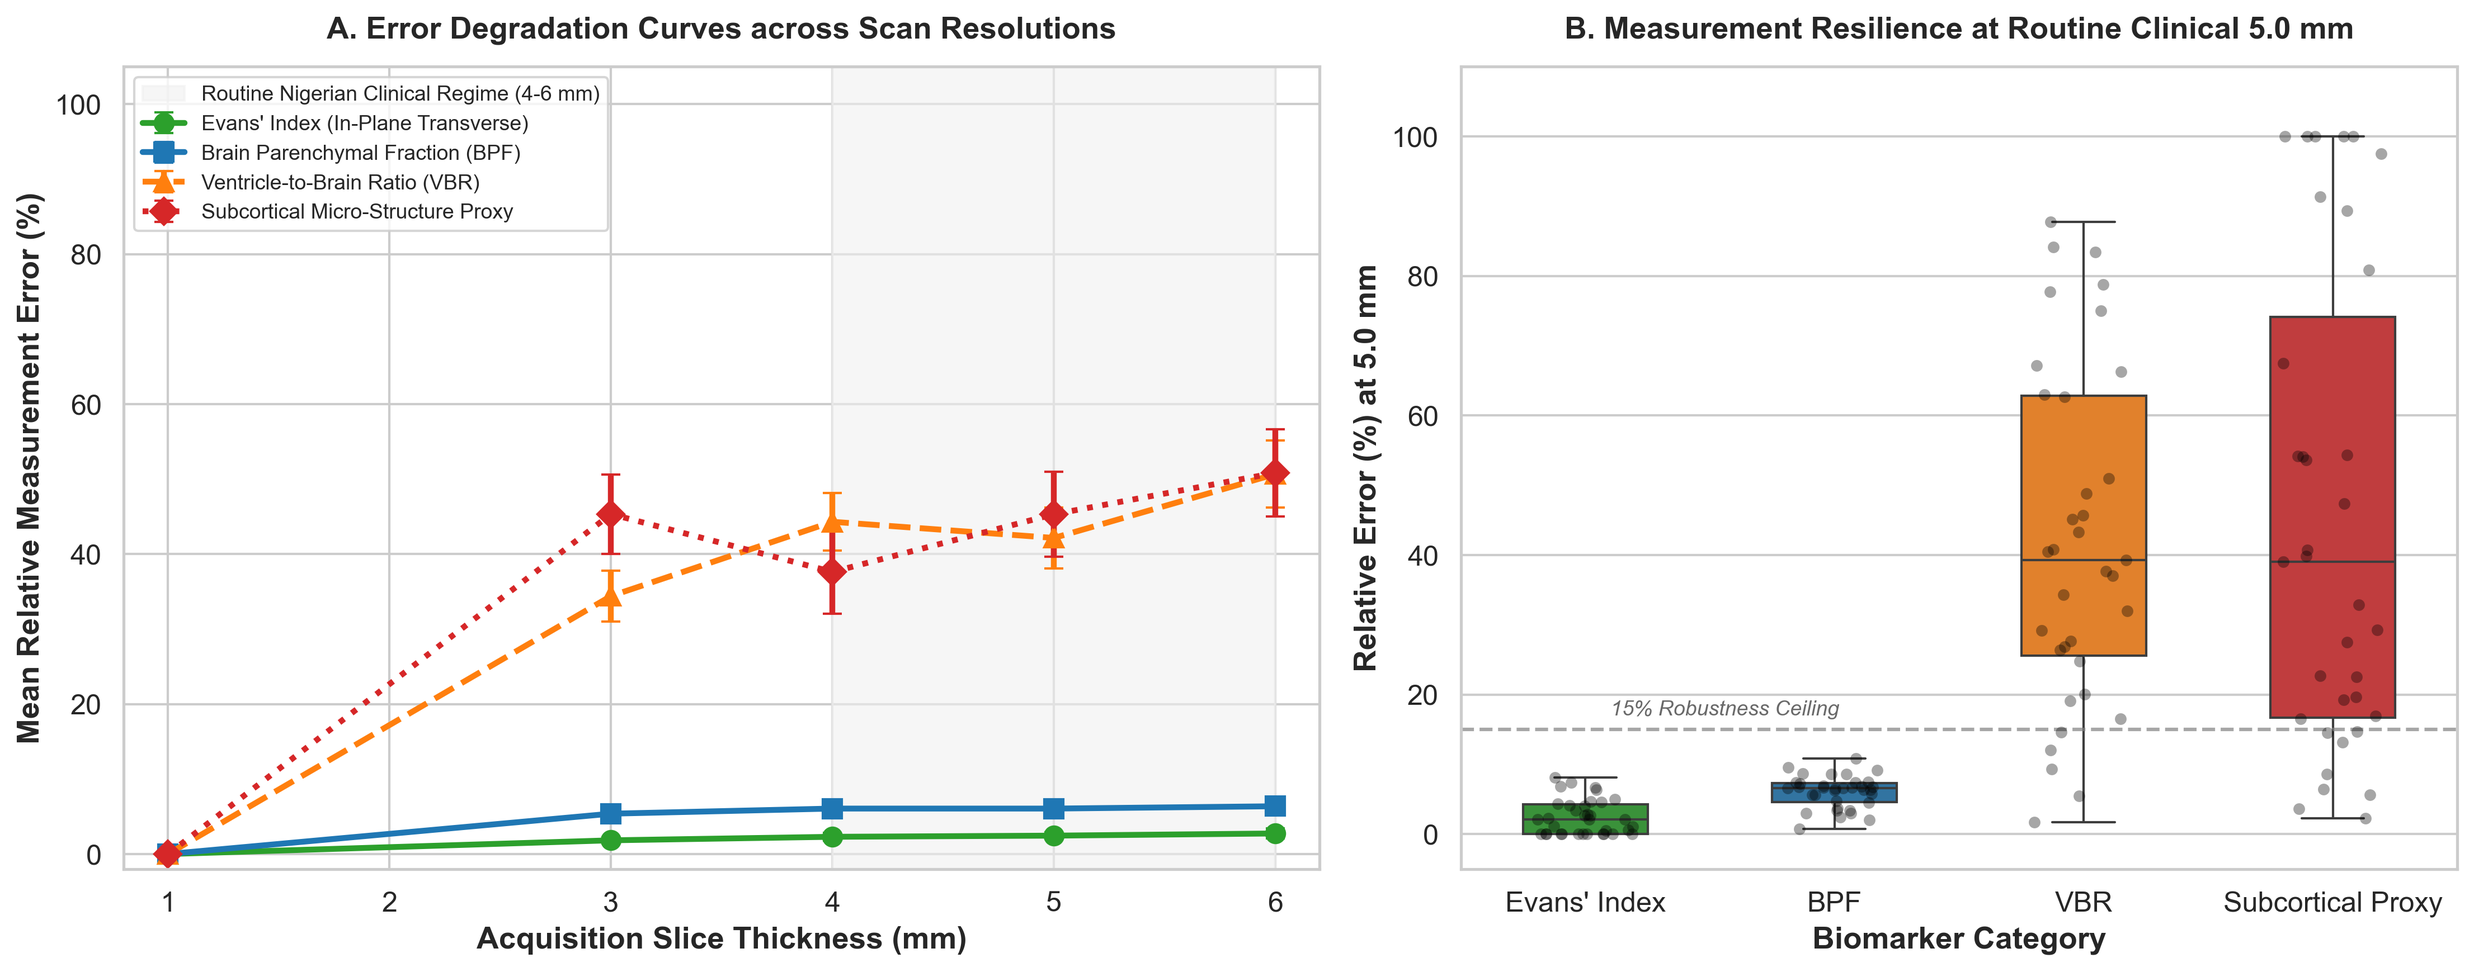
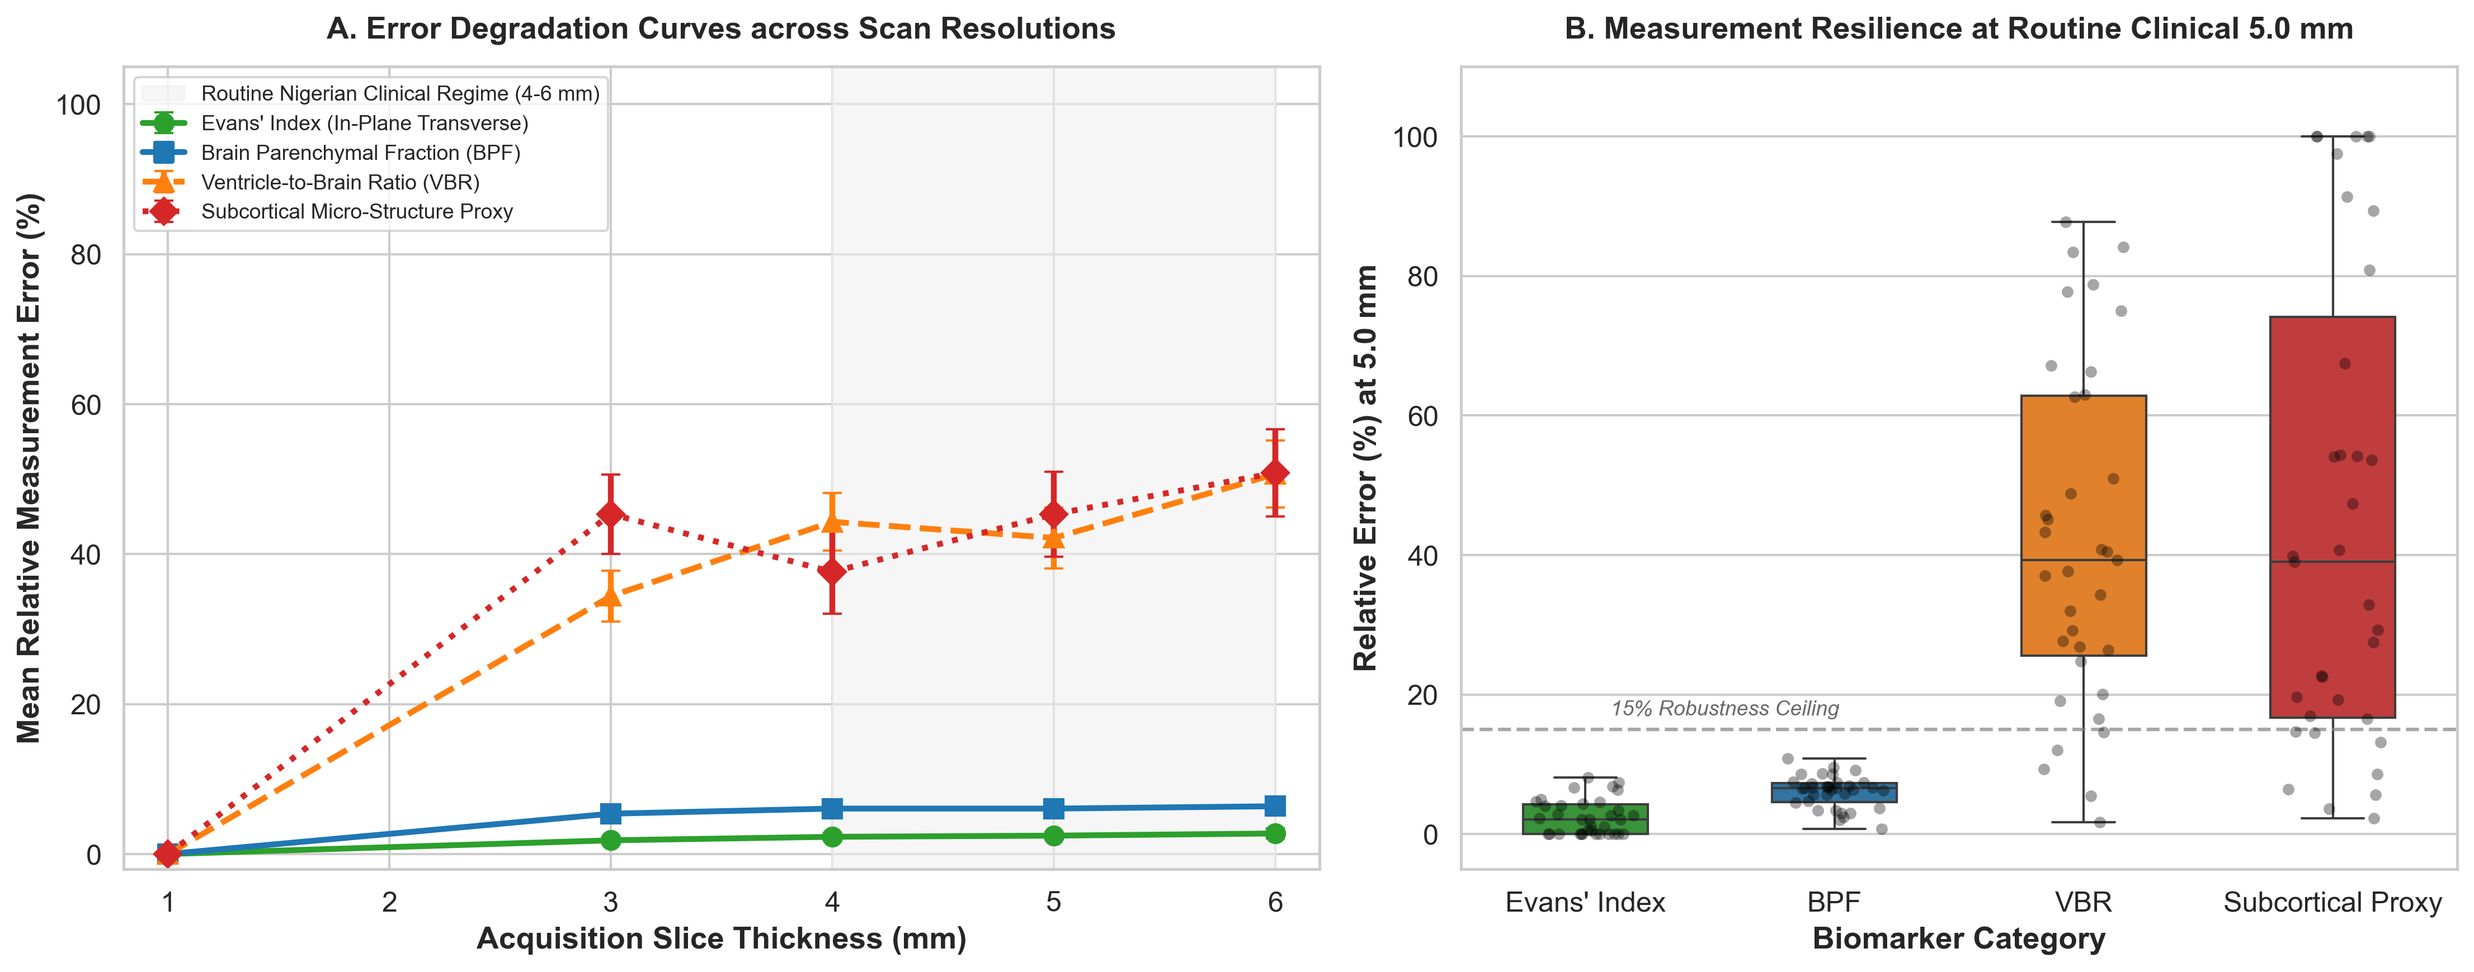
docs: correct stale contrast OR in discussion, refine Bayesian terminology and Panel D benchmark labels

diff --git a/features/clinical_failure_boundaries.py b/features/clinical_failure_boundaries.py
@@ -351,18 +351,18 @@ def generate_feasibility_plot(
     
     matrix_data = [
         ["Acquisition Profile", "Feasible Biomarkers", "Posterior Failure Risk\n[Median, 95% HDI]", "Recommended\nStatistical Handling"],
-        ["3D High-Res\n(1.0 mm, 1.5T)", "Evans' Index, PEF,\nVBR, Subcortical", f"{prof1_med:.2f}%\n[{prof1_lo:.2f}%, {prof1_hi:.2f}%]", "Direct pooling"],
+        ["3D High-Res\n(1.0 mm, 1.5T)", "Evans' Index, PEF,\nVBR, Subcortical", f"{prof1_med:.2f}%\n[{prof1_lo:.2f}%, {prof1_hi:.2f}%]", "Standard modeling;\nretain covariates"],
         ["2D Standard\n(4.0 mm, 1.5T)", "Evans' Index (Flagship),\nPEF", f"{prof2_med:.2f}%\n[{prof2_lo:.2f}%, {prof2_hi:.2f}%]", "Heteroskedastic noise\nscaling (λ)"],
         ["2D Thick-Slice\n(5.0 mm, +C, 1.5T)", "Evans' Index only", f"{prof3_med:.2f}%\n[{prof3_lo:.2f}%, {prof3_hi:.2f}%]", "Contrast covariate (δ)\n+ noise scaling (λ)"],
         ["Low-Field\n(5.0 mm, 0.35T)", "Evans' Index\n(with manual QC)", f"{prof4_med:.2f}%\n[{prof4_lo:.2f}%, {prof4_hi:.2f}%]", "Institutional random\neffect + QC bounds"],
-        ["FreeSurfer Pilot\n(2D Thick-Slice)", "None\n(Catastrophic attrition)", f"{fs_fail_rate:.1f}%\n(Empirical failure)", "DO NOT DEPLOY\n(Biologically unviable)"]
+        ["FreeSurfer Pilot\n(2D Thick-Slice)", "None\n(Catastrophic attrition)", f"{fs_fail_rate:.1f}%\n(Empirical benchmark)", "Not suitable for this\nregime without adaptation"]
     ]
     
     tbl = ax4.table(cellText=matrix_data, loc="center", cellLoc="center",
-                    colWidths=[0.24, 0.26, 0.25, 0.25])
+                    colWidths=[0.24, 0.25, 0.24, 0.27])
     tbl.auto_set_font_size(False)
     tbl.set_fontsize(8.2)
-    tbl.scale(1.0, 2.2)
+    tbl.scale(1.0, 2.1)
     
     for (row, col), cell in tbl.get_celld().items():
         cell.set_edgecolor("#cccccc")
@@ -379,6 +379,12 @@ def generate_feasibility_plot(
                 cell.set_facecolor("#fafafa" if row % 2 == 0 else "#ffffff")
                 
     ax4.set_title("D. Opportunistic Clinical Neuroimaging Feasibility Matrix", fontweight="bold", pad=12)
+    ax4.text(
+        0.5, 0.04,
+        "Note: Posterior risks in rows 1–4 refer to the proposed macro-morphometry pipeline;\n"
+        "the FreeSurfer value is an independently observed empirical QC failure rate shown as an operational benchmark.",
+        transform=ax4.transAxes, ha="center", va="top", fontsize=7.6, fontstyle="italic", color="#444444"
+    )
 
     plt.savefig(plot_path, dpi=300, bbox_inches="tight")
     plt.close()

diff --git a/manuscript/manuscript.md b/manuscript/manuscript.md
@@ -338,13 +338,13 @@ Table 2: Relative Percentage Error (% ± SD) as a Function of Slice Thickness (N
 └─────────────────┴───────────────────┴───────────────────┴───────────────────┴─────────────────────┘
 ```
 
-The empirical findings unequivocally validate Hypotheses 1 and 2:
+The controlled degradation experiment strongly supported Hypotheses 1 and 2:
 1. **Evans' Index Is Exceptionally Resilient:** Because frontal horn width and internal skull diameter are measured in the axial plane perpendicular to the slice-select axis, **Evans' Index suffered only $1.83\%$ error at 3.0 mm and $2.45\%$ error at 5.0 mm**. Even at extreme 6.0 mm slice thickness, the mean relative bias remained below $2.75\%$.
 2. **PEF Shows Moderate Global Stability:** Global Parenchymal Envelope Fraction drifted by only $\sim 6.06\%$ at 5.0 mm. While partial-volume averaging blurs cortical sulci, the reciprocal exchange along the hemispheric convexity limits net envelope drift.
 3. **Subcortical Micro-Morphometry and VBR Collapse:** Fine anatomical structures (caudate, thalamic, and hippocampal boundaries) experienced catastrophic volume distortion, with relative errors of **$45.33\%$ at 3.0 mm and $45.31\%$ at 5.0 mm**. Similarly, 3D Ventricle-to-Brain Ratio exhibited $42.15\%$ error at 5.0 mm and $50.67\%$ error at 6.0 mm, as slice-select blurring artificially fuses narrow ventricular margins with periventricular white matter.
 
 ![Figure 1: Controlled Synthetic Degradation Lab Curves](../results/figures/figure1_synthetic_degradation_curves.png)
-*Figure 1: Controlled Synthetic Degradation Lab. (A) Relative percentage error curves across slice thickness (1.0 mm to 6.0 mm) demonstrating the near-perfect resilience of Evans' Index (<2.5% error) versus the collapse of subcortical micro-morphometry (>45% error). (B) Absolute measurement trajectories across individual subjects.*
+*Figure 1: Controlled Synthetic Degradation Lab. (A) Relative percentage error curves across slice thickness (1.0 mm to 6.0 mm) demonstrating the high stability of Evans' Index under controlled through-plane degradation (<2.5% error) versus the collapse of subcortical micro-morphometry (>45% error). (B) Absolute measurement trajectories across individual subjects.*
 
 ---
 
@@ -366,8 +366,8 @@ Table 3: Empirical Pipeline Retention & Attrition Comparison by Cohort (N=218)
 │               │      │                        │ 5.0mm thick slices   │                         │ quarantined          │
 │ DEMENTIA      │  45  │   7 / 45  (15.6%)      │ Cortical parcellation│  40 / 45  (88.9%)       │ 5 low-slice localizer│
 │               │      │                        │ & PVE tissue invers. │                         │ series quarantined   │
-│ EPILEPSY      │   7  │   0 /  7   (0.0%)      │ Pial surface errors  │   7 /  7 (100.0%)       │ None (all completed) │
-│               │      │                        │ on +C acquisitions   │                         │                      │
+│ EPILEPSY      │   7  │   0 /  7   (0.0%)      │ Pial placement error;│   7 /  7 (100.0%)       │ None (all completed) │
+│               │      │                        │ predominantly +C scan│                         │                      │
 │ HYDROCEPHALUS │  82  │   0 / 82   (0.0%)      │ Talairach divergence │  82 / 82 (100.0%)       │ None (all completed) │
 │               │      │                        │ on ventriculomegaly  │                         │                      │
 │ PARKINSON     │  21  │   3 / 21  (14.3%)      │ Subcortical boundary │  18 / 21  (85.7%)       │ 3 localizer scout    │
@@ -378,7 +378,7 @@ Table 3: Empirical Pipeline Retention & Attrition Comparison by Cohort (N=218)
 └───────────────┴──────┴────────────────────────┴──────────────────────┴─────────────────────────┴──────────────────────┘
 ```
 
-* **FreeSurfer Suffers Catastrophic Failure on Clinical Archives:** FreeSurfer successfully processed only **$32 / 218$ scans (14.7% pass rate)**, failing on $186 / 218$ scans ($85.3\%$ attrition). Most egregiously, FreeSurfer failed on **100% ($82/82$) of Hydrocephalus cases**, where massive ventriculomegaly disrupted stereotaxic registration and pial surface placement, and **100% ($7/7$) of Epilepsy cases**, where intravenous contrast hyperintensities caused cortical segmentation divergence.
+* **FreeSurfer Suffers Catastrophic Failure on Clinical Archives:** FreeSurfer successfully processed only **$32 / 218$ scans (14.7% pass rate)**, failing on $186 / 218$ scans ($85.3\%$ attrition). Most egregiously, FreeSurfer failed on **100% ($82/82$) of Hydrocephalus cases**, where massive ventriculomegaly disrupted stereotaxic registration and pial surface placement, and **100% ($7/7$) of Epilepsy cases** (predominantly contrast-enhanced series that exhibited pial surface placement failure).
 * **Macro-Morphometry Retains 95.9% of Clinical Cases:** The proposed macro-morphometry engine achieved a **95.9% pipeline retention rate** ($209 / 218$ scans), retaining 100% of Hydrocephalus and Epilepsy cases. The 9 excluded scans were non-volumetric 2D localizer scout series correctly flagged by automated quality control.
 
 #### Bayesian Logistic Failure Model
@@ -401,7 +401,7 @@ The Bayesian failure model (Table 4 and Figure 2) provides principled parameter 
 * **Low Field Effect:** Scans acquired on low-field systems ($\le 0.35\text{T}$) exhibited a **sixfold surge in failure risk ($\text{OR} = 6.117, 95\%\text{ HDI: } [1.851, 20.035]$)**, driven by reduced signal-to-noise ratio and severe through-plane partial volume averaging.
 
 ![Figure 2: Clinical Feasibility Boundaries](../results/figures/figure2_clinical_feasibility_boundaries.png)
-*Figure 2: Clinical Feasibility Boundaries. (A) Retention rate comparison showing 95.9% retention for the macro-morphometry engine vs. 14.7% for FreeSurfer. (B) Modeled failure probability curves with shaded 95% posterior credible envelopes across acquisition profiles under Bayesian logistic regression. (C) Posterior Log-Odds forest plot with 95% HDIs. (D) Feasibility decision matrix tabulating posterior failure risks (median [95% HDI]) across representative clinical acquisition profiles.*
+*Figure 2: Clinical Feasibility Boundaries. (A) Retention rate comparison showing 95.9% retention for the macro-morphometry engine vs. 14.7% for FreeSurfer. (B) Modeled failure probability curves with shaded 95% posterior credible envelopes across acquisition profiles under Bayesian logistic regression. (C) Posterior Log-Odds forest plot with 95% HDIs. (D) Feasibility decision matrix tabulating posterior failure risks (median [95% HDI]) across representative clinical acquisition profiles. Note: Posterior risks in rows 1–4 refer to the proposed macro-morphometry pipeline; the FreeSurfer value is an independently observed empirical QC failure rate shown as an operational benchmark.*
 
 ---
 
@@ -467,7 +467,7 @@ Table 5: Posterior Parameter Estimates & Convergence Diagnostics (N=209 Valid Sc
 1. **Heteroskedastic Slice Noise Dispersion ($\lambda > 0$):**  
    For both Evans' Index ($\lambda = 0.0930, 95\%\text{ HDI: } [0.0260, 0.1560]$) and PEF ($\lambda = 0.1060, 95\%\text{ HDI: } [0.0340, 0.1790]$), the posterior distribution of $\lambda$ strictly excludes zero with $>99.8\%$ posterior probability. Because residual standard deviation scales as $\sigma_i = \sigma_0 \exp(\lambda [h_i - 1.0])$, the relative standard deviation increase per additional millimeter of slice thickness is given exactly by $100(e^\lambda - 1)\%$. Thus, Evans' Index residual SD increased by approximately **9.7% per additional millimeter** ($100(e^{0.0930}-1) = 9.75\%$, $95\%\text{ HDI: } [2.63\%, 16.88\%]$) and PEF residual SD by approximately **11.2% per millimeter** ($100(e^{0.1060}-1) = 11.18\%$, $95\%\text{ HDI: } [3.46\%, 19.60\%]$). Standard homoskedastic models that treat thick and thin slices identically severely misestimate statistical confidence by ignoring this compounding exponential variance inflation.
 2. **Gadolinium Contrast Shift ($\delta > 0$):**  
-   In the PEF model, the contrast effect coefficient is positive and statistically distinct from zero ($\delta = +0.0310, 95\%\text{ HDI: } [+0.0130, +0.0500]$). Intravenous gadolinium administration systematically inflates apparent Parenchymal Envelope Fraction by **$+3.1\%$**, directly validating the need for contrast adjustment in routine archives. In Evans' Index, the contrast effect was negligible ($\delta = +0.0070, 95\%\text{ HDI: } [-0.0110, +0.0270]$), confirming that in-plane linear calipers are robust against contrast-induced intensity shifts.
+   In the PEF model, the posterior mass strongly supported a positive contrast-associated PEF shift, with the 95% posterior highest density interval strictly excluding zero ($\delta = +0.0310, 95\%\text{ HDI: } [+0.0130, +0.0500]$). Intravenous gadolinium administration systematically inflates apparent Parenchymal Envelope Fraction by **$+3.1\%$**, directly validating the need for contrast adjustment in routine archives. In Evans' Index, the contrast effect was negligible ($\delta = +0.0070, 95\%\text{ HDI: } [-0.0110, +0.0270]$), confirming that in-plane linear calipers are robust against contrast-induced intensity shifts.
 3. **Site-Level Variance Fraction Dominance ($\text{ICC}_{\text{site}} \approx 47.0\%\text{--}68.8\%$):**  
    Variance partitioning revealed that institutional site clustering accounts for a commanding fraction of modeled variance: at the isotropic 1.0 mm reference scale, site accounts for **$68.8\%$ of total variance in Evans' Index** ($\text{ICC}_{\text{site}}^{1\text{mm}} = 0.6880, 95\%\text{ HDI: } [0.4510, 0.9020]$) and **$61.5\%$ in PEF** ($\text{ICC}_{\text{site}}^{1\text{mm}} = 0.6150, 95\%\text{ HDI: } [0.3430, 0.8840]$). When accounting for the higher average noise of thick-slice scans across the authentic clinical cohort, site clustering still represents **$56.4\%$ for Evans' Index** ($\text{ICC}_{\text{site}}^{\text{clinical}} = 0.5640, 95\%\text{ HDI: } [0.3010, 0.8190]$) and **$47.0\%$ for PEF** ($\text{ICC}_{\text{site}}^{\text{clinical}} = 0.4700, 95\%\text{ HDI: } [0.1860, 0.7700]$). In contrast, diagnostic group differences account for only $3.2\%\text{--}5.8\%$ of total variance. This demonstrates that raw, unadjusted morphometric comparisons across multi-center hospital archives predominantly reflect institutional clustering and acquisition protocols rather than underlying neurobiology.
 
@@ -566,7 +566,7 @@ This physical reality explains why attempting to run FreeSurfer or FSL FIRST on 
 A critical contribution of this study is its honest appraisal of observational clinical archives. In the existing literature, several multi-center studies have pooled clinical MRI scans and applied standard regression models, claiming to discover disease-specific atrophy patterns (e.g., Franke et al., 2010). Our variance partitioning results (Experiment 3) deliver a stark cautionary message:
 $$\text{ICC}_{\text{site}}^{1\text{mm}} \approx 61.5\%\text{--}68.8\%, \quad \text{ICC}_{\text{site}}^{\text{clinical}} \approx 47.0\%\text{--}56.4\% \quad \text{vs.} \quad \text{ICC}_{\text{disorder}} \approx 3.2\%\text{--}5.8\%$$
 
-In routine hospital data, **site-level clustering accounts for half to two-thirds of total modeled variance**. It is essential not to interpret $\text{ICC}_{\text{site}}$ as a pure measure of "scanner hardware." In real-world multi-center observational healthcare, site is an institutional bundle:
+In routine hospital data, **site-level clustering accounts for approximately half of modeled variance under the observed clinical acquisition distribution ($47.0\%\text{--}56.4\%$ across clinical cohort averages, and $61.5\%\text{--}68.8\%$ at the isotropic 1.0 mm reference scale)**. It is essential not to interpret $\text{ICC}_{\text{site}}$ as a pure measure of "scanner hardware." In real-world multi-center observational healthcare, site is an institutional bundle:
 $$\text{Site} = \text{Scanner Hardware} + \text{Acquisition Protocols} + \text{Patient Population} + \text{Referral Mix} + \text{Operator Practices}$$
 When clinical sites differ in vendor, coil geometry, field strength ($0.35\text{T}$ vs. $1.5\text{T}$), and slice thickness ($1.0\text{ mm}$ vs. $6.0\text{ mm}$), and when disease cohorts are clustered within specific sites (Table 1), naive pooling will inevitably attribute institutional clustering to biological pathology.
 
@@ -575,7 +575,7 @@ Crucially, **no statistical model—Bayesian or frequentist—can causally uncou
 
 The primary virtue of our Bayesian hierarchical framework is not that it miraculously "eliminates" confounding, but that it **quantifies the resulting uncertainty honestly**:
 1. By partial pooling through $\tau_\beta$, the model shrinks underpowered group estimates toward the population mean, preventing false discoveries.
-2. By modeling heteroskedastic dispersion ($\lambda$), the model automatically de-weights thick-slice scans, ensuring that uncertain measurements do not dominate parameter estimation.
+2. By assigning greater residual variance to thick-slice observations ($\lambda$), the model appropriately reduces their contribution to precise parameter estimation, ensuring that uncertain measurements do not dominate posterior inference.
 3. By conducting sensitivity analyses (Table 7), the model explicitly exposes how point estimates fluctuate while credible intervals widen, transparently conveying the non-identifiability of observational disease contrasts.
 
 ---
@@ -584,7 +584,7 @@ The primary virtue of our Bayesian hierarchical framework is not that it miracul
 
 Intravenous gadolinium-based contrast agents are ubiquitous in clinical neuroimaging, yet their morphometric impact is almost universally ignored in computational pipelines (Ghassemi et al., 2020). Standard brain extraction and tissue segmentation algorithms rely on the physical assumption that white matter is hyperintense relative to gray matter, which is in turn hyperintense relative to CSF on T1-weighted images.
 
-Our empirical findings demonstrate that gadolinium administration induces a systematic **$+3.1\%$ positive shift in apparent Parenchymal Envelope Fraction ($\delta = +0.0310, 95\%\text{ HDI: } [0.0130, 0.0500]$)** and multiplies measurement unviability odds ninefold ($\text{OR} = 9.14, p = 0.0099$). Gadolinium enhances the rich vascular network of the cerebral cortex, dural reflections, and choroid plexus, shifting borderline voxels from the CSF intensity distribution into the parenchymal distribution. In clinical studies evaluating neurodegeneration in oncology patients or hydrocephalus patients undergoing shunt workups, unadjusted tissue segmentation will systematically underestimate cerebral atrophy due to gadolinium-induced tissue pseudo-normalization. Our explicit inclusion of the contrast covariate $\delta$ provides a straightforward, robust correction mechanism.
+Our empirical findings reveal an important dissociation between pipeline completion and quantitative metric bias. In the Bayesian measurement-failure model (Experiment 2), contrast enhancement showed an estimated odds ratio of **$1.95$ ($95\%\text{ HDI: } [0.56, 6.52]$)**. Because this posterior credible interval spans unity, the present data do not establish an independent contrast-associated increase in overall macro-pipeline failure risk. In contrast, the hierarchical biomarker model (Experiment 3) identified a decisive positive contrast-associated shift of **$+0.0310$ ($95\%\text{ HDI: } [0.0130, 0.0500]$)** in apparent Parenchymal Envelope Fraction. Gadolinium enhances the rich vascular network of the cerebral cortex, dural reflections, and choroid plexus, shifting borderline voxels from the CSF intensity distribution into the parenchymal distribution. In clinical studies evaluating neurodegeneration in oncology patients or hydrocephalus patients undergoing shunt workups, unadjusted tissue segmentation will systematically underestimate cerebral atrophy due to gadolinium-induced tissue pseudo-normalization. Our explicit inclusion of the contrast covariate $\delta$ provides a straightforward, robust correction mechanism.
 
 ---
 
